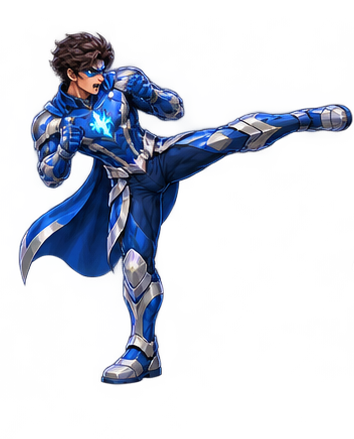
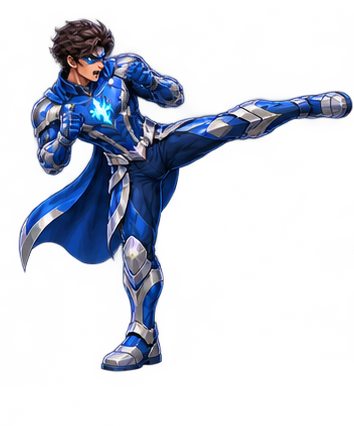
POINTS

Changed region(s): [[0.0311, 0.0305, 1.0, 0.885]]

diff --git a/src/style.css b/src/style.css
@@ -481,3 +481,220 @@ body{background:var(--bg);color:var(--text)}
 .sc-featured:after{background:linear-gradient(180deg,#ffffff00 50%,#143b5b20 100%)!important}
 @media(max-width:520px){.sc-featured{height:240px!important}}
 .gc-fighter.red img[src*="/images/powers/"]{transform:scaleX(-1)!important}
+
+/* FINAL REQUESTED POLISH — compact clash label, fixed hero scale, full-screen layout */
+.gc-impact{gap:7px!important;padding:5px 10px!important;border-radius:999px!important;backdrop-filter:blur(5px)!important}
+.gc-impact b{font-size:clamp(12px,1.55vw,19px)!important;letter-spacing:.12em!important;animation:gc-impact-pop .35s ease-out both!important}
+.gc-impact i{width:clamp(12px,2.8vw,38px)!important;height:2px!important}
+.gc-result-banner{padding:7px 13px!important;min-width:150px!important}
+.gc-result-banner strong{font-size:clamp(10px,1.1vw,13px)!important;letter-spacing:.08em!important}
+.gc-result-banner span{font-size:7px!important;margin-top:2px!important}
+/* Keep attack sprites at their normal size; only move them toward the centre. */
+@keyframes gc-blue-cast-new{0%,100%{transform:translateX(0)}25%{transform:translateX(8px)}55%{transform:translateX(30px)} }
+@keyframes gc-red-cast-new{0%,100%{transform:translateX(0)}25%{transform:translateX(-8px)}55%{transform:translateX(-30px)} }
+.gc-fighter img{transform:none!important}
+.gc-fighter.red img{transform:none!important}
+/* Character selection: whole fighter visible, no dark fade over the lower body. */
+.gc-hero-card:before{display:none!important}
+.gc-hero-card img{height:clamp(205px,27vh,270px)!important;object-fit:contain!important;object-position:center bottom!important;mask-image:none!important;border-radius:0!important;margin:3px auto 0!important}
+.gc-hero-card{min-height:0!important}
+/* Desktop: keep the complete selection and battle controls inside the viewport. */
+@media (min-width:761px){
+  .gsh-screen.gsh-clean-clash{height:100dvh!important;min-height:0!important;overflow:hidden!important;padding:8px 18px!important;box-sizing:border-box!important}
+  .gsh-clean-clash .gsh-back-row{margin-bottom:5px!important;min-height:38px!important}
+  .gc-select{height:calc(100dvh - 62px)!important;max-height:calc(100dvh - 62px)!important;margin:0 auto!important;padding:10px 18px!important;display:flex!important;flex-direction:column!important;justify-content:center!important;overflow:hidden!important;box-sizing:border-box!important}
+  .gc-select>h1{font-size:clamp(26px,3.1vw,40px)!important;margin:4px 0!important}
+  .gc-select>p{font-size:12px!important;margin:0 auto 10px!important}
+  .gc-select-grid{flex:1 1 auto!important;min-height:0!important;grid-template-columns:minmax(0,1fr) 48px minmax(0,1fr)!important;gap:12px!important}
+  .gc-hero-card{height:100%!important;padding:10px 14px!important;justify-content:center!important;gap:2px!important}
+  .gc-hero-card img{height:clamp(190px,27vh,250px)!important;max-height:30vh!important}
+  .gc-hero-card h2{font-size:clamp(22px,2vw,30px)!important;margin:2px 0!important}
+  .gc-name-field{margin:5px auto!important;gap:3px!important}
+  .gc-name-field input{padding:8px 10px!important}
+  .gc-hero-switch{margin-top:5px!important}
+  .gc-select>.gc-primary{margin-top:8px!important;min-height:40px!important;padding:9px 20px!important}
+  .gc-game{height:calc(100dvh - 60px)!important;max-height:calc(100dvh - 60px)!important;margin:0 auto!important;display:flex!important;flex-direction:column!important;gap:6px!important;overflow:hidden!important}
+  .gc-top-hud{flex:0 0 auto!important;gap:9px!important}
+  .gc-hud-side{padding:7px 12px!important}
+  .gc-round strong{font-size:22px!important}
+  .gc-stage{height:39vh!important;min-height:260px!important;max-height:390px!important;flex:0 0 auto!important}
+  .gc-fighter{height:94%!important;bottom:2px!important;width:34%!important}
+  .gc-fighter.blue{left:4%!important}
+  .gc-fighter.red{right:4%!important}
+  .gc-turn-status{min-height:22px!important;flex:0 0 auto!important;font-size:9px!important}
+  .gc-pick-panels{flex:0 0 auto!important;gap:8px!important;grid-template-columns:minmax(0,1fr) 105px minmax(0,1fr)!important}
+  .gc-picker{padding:7px!important}
+  .gc-picker-head{margin-bottom:5px!important}
+  .gc-power-grid{gap:5px!important}
+  .gc-power-grid button{height:64px!important}
+  .gc-middle-action{gap:5px!important}
+  .gc-reveal-row{flex:0 0 auto!important;gap:8px!important}
+  .gc-revealed{padding:8px 12px!important}
+  .gc-next,.gc-finish-actions{flex:0 0 auto!important;margin:0 auto!important}
+  .gc-footnote{margin-top:auto!important;padding-top:3px!important;font-size:7px!important}
+}
+@media(max-width:760px){
+  .gc-hero-card img{height:190px!important}
+  .gc-impact b{font-size:13px!important}
+  .gc-stage{border:2px solid #82b9df!important;box-shadow:0 0 0 3px #d7ebf8,0 10px 28px #2b4e681b!important}
+}
+
+/* ================================================================
+   GLOBAL SUPER HERO — complete 12-point arena polish
+   ================================================================ */
+.gsh-screen.gsh-clean-clash{
+  height:100dvh!important;min-height:100dvh!important;overflow:hidden!important;
+  box-sizing:border-box!important;padding:8px clamp(10px,2vw,26px)!important;
+  background:linear-gradient(135deg,#f8fcff 0%,#eaf4ff 52%,#fff8f5 100%)!important;
+}
+.gsh-clean-clash .gsh-back-row{height:38px!important;min-height:38px!important;margin:0 auto 6px!important;max-width:1500px!important}
+.gsh-clean-clash .gsh-back-row>button{border:1px solid #bfd5e7!important;background:#fff!important;color:#20486a!important}
+.gsh-clean-clash .gsh-brand{color:#1d4770!important;text-shadow:none!important}
+.gsh-clean-clash .gsh-round-tag{background:#fff!important;border:1px solid #c9dceb!important;color:#476983!important}
+
+/* Character select: full fighters, distinct team frames, no clipped controls. */
+.gc-select{
+  width:min(1500px,100%)!important;height:calc(100dvh - 58px)!important;max-height:calc(100dvh - 58px)!important;
+  margin:0 auto!important;padding:clamp(8px,1.5vh,16px) clamp(10px,2vw,26px)!important;
+  display:flex!important;flex-direction:column!important;justify-content:center!important;gap:clamp(3px,.8vh,8px)!important;
+  overflow:hidden!important;box-sizing:border-box!important;border:1px solid #c8dceb!important;
+  border-radius:22px!important;background:linear-gradient(145deg,#fff 0%,#f3f9ff 55%,#fff7f4 100%)!important;
+  box-shadow:0 12px 36px #294d6817!important;
+}
+.gc-select .gc-kicker{color:#3386bb!important;font-size:clamp(8px,1vh,11px)!important;letter-spacing:.22em!important}
+.gc-select>h1{color:#173c5d!important;font-size:clamp(23px,3.2vw,42px)!important;line-height:1.08!important;margin:2px 0!important;text-shadow:none!important}
+.gc-select>p{color:#67839b!important;font-size:clamp(9px,1.25vh,13px)!important;margin:0 auto clamp(3px,.7vh,7px)!important}
+.gc-select-grid{flex:1 1 auto!important;min-height:0!important;grid-template-columns:minmax(0,1fr) clamp(34px,4vw,62px) minmax(0,1fr)!important;gap:clamp(6px,1.2vw,18px)!important;align-items:stretch!important}
+.gc-hero-card{
+  min-height:0!important;height:100%!important;padding:clamp(8px,1.3vh,14px) clamp(8px,1.4vw,20px)!important;
+  display:flex!important;flex-direction:column!important;align-items:center!important;justify-content:center!important;gap:clamp(2px,.5vh,6px)!important;
+  border:2px solid #67b8e8!important;border-radius:20px!important;
+  background:linear-gradient(155deg,#fff 0%,#eff8ff 100%)!important;
+  box-shadow:0 8px 24px #2586c51a,inset 0 0 0 1px #ffffff!important;overflow:hidden!important;
+}
+.gc-hero-card.red{border-color:#f19a83!important;background:linear-gradient(155deg,#fff 0%,#fff2ee 100%)!important;box-shadow:0 8px 24px #dc6c4d17,inset 0 0 0 1px #fff!important}
+.gc-hero-card:before{display:none!important}
+.gc-player-label{align-self:flex-start!important;color:#47718e!important;font-size:clamp(8px,.9vh,10px)!important;letter-spacing:.2em!important}
+.gc-hero-card img{position:relative!important;display:block!important;width:100%!important;height:clamp(150px,30vh,290px)!important;max-height:32vh!important;object-fit:contain!important;object-position:center bottom!important;mask-image:none!important;border-radius:0!important;margin:0 auto!important;filter:drop-shadow(0 8px 9px #274a6522)!important;flex:0 1 auto!important}
+.gc-hero-card h2{position:relative!important;color:#176ca7!important;font-size:clamp(19px,2.4vw,32px)!important;line-height:1!important;margin:2px 0 0!important;letter-spacing:.1em!important}
+.gc-hero-card.red h2{color:#c44d3e!important}
+.gc-hero-card>span{color:#68839a!important;font-size:clamp(7px,.9vh,10px)!important;letter-spacing:.12em!important}
+.gc-name-field{width:min(300px,90%)!important;margin:clamp(2px,.5vh,6px) auto!important;color:#648097!important;font-size:clamp(7px,.8vh,9px)!important;gap:3px!important}
+.gc-name-field input{width:100%!important;padding:clamp(6px,.9vh,10px)!important;border:1px solid #c9dceb!important;border-radius:9px!important;background:#fff!important;color:#173c5d!important;font-size:clamp(10px,1.1vh,13px)!important}
+.gc-hero-switch{position:relative!important;display:flex!important;justify-content:center!important;gap:clamp(3px,.6vw,8px)!important;margin-top:clamp(2px,.5vh,6px)!important;flex-wrap:wrap!important}
+.gc-hero-switch button{padding:clamp(5px,.8vh,9px) clamp(7px,.9vw,14px)!important;border-radius:9px!important;border:1px solid #a9cbe1!important;background:#fff!important;color:#315b78!important;font-size:clamp(8px,.9vh,10px)!important}
+.gc-hero-card.blue .gc-hero-switch button.active{background:#dff2ff!important;border-color:#238dce!important;color:#075e99!important;box-shadow:0 0 0 2px #b9e5ff!important}
+.gc-hero-card.red .gc-hero-switch button.active{background:#ffebe5!important;border-color:#df705b!important;color:#a43d32!important;box-shadow:0 0 0 2px #ffd0c5!important}
+.gc-vs{color:#426c8c!important;font-size:clamp(18px,2.2vw,30px)!important;font-weight:1000!important;text-shadow:none!important;align-self:center!important}
+.gc-select>.gc-primary{flex:0 0 auto!important;margin:clamp(4px,.8vh,9px) auto 0!important;min-height:40px!important;padding:9px 24px!important;border:1px solid #2687c8!important;border-radius:12px!important;background:linear-gradient(100deg,#168bd4,#2869bb)!important;box-shadow:0 6px 16px #168bd433!important}
+
+/* Game view: a real viewport layout, so the controls stay visible. */
+.gc-game{
+  width:min(1500px,100%)!important;height:calc(100dvh - 52px)!important;max-height:calc(100dvh - 52px)!important;
+  margin:0 auto!important;display:flex!important;flex-direction:column!important;gap:clamp(4px,.7vh,8px)!important;
+  overflow:hidden!important;box-sizing:border-box!important;
+}
+.gc-top-hud{flex:0 0 auto!important;grid-template-columns:minmax(0,1fr) clamp(42px,5vw,66px) minmax(0,1fr)!important;gap:clamp(5px,1vw,12px)!important}
+.gc-hud-side{min-width:0!important;padding:clamp(5px,.9vh,10px) clamp(7px,1vw,13px)!important;border:1.5px solid #68b6e4!important;border-radius:12px!important;background:linear-gradient(110deg,#fff,#f0f8ff)!important;box-shadow:0 4px 14px #2a668a12!important}
+.gc-hud-side.red{border-color:#ef9b83!important;background:linear-gradient(110deg,#fff,#fff3ef)!important}
+.gc-hud-side small{color:#6c879c!important}.gc-hud-side strong{color:#176da6!important;font-size:clamp(11px,1.3vw,16px)!important}.gc-hud-side.red strong{color:#c34d3f!important}
+.gc-health{height:clamp(7px,1.1vh,11px)!important;background:#e0eaf1!important}.gc-round small{color:#718ba1!important}.gc-round strong{color:#254b69!important;font-size:clamp(18px,2vw,25px)!important}
+.gc-stage{
+  position:relative!important;flex:1 1 auto!important;min-height:0!important;height:auto!important;max-height:none!important;
+  border:3px solid transparent!important;border-radius:18px!important;
+  background:linear-gradient(#f5fbff,#f5fbff) padding-box,linear-gradient(110deg,#54b8ed 0%,#d7e7f2 30%,#e6c78f 50%,#f1a18b 72%,#e16e5a 100%) border-box!important;
+  box-shadow:0 0 0 1px #ffffff,inset 0 0 0 1px #ffffff,0 10px 28px #2a56731a!important;overflow:hidden!important;
+}
+.gc-arena-backdrop{position:absolute!important;inset:0!important;background:#eaf5ff!important;filter:none!important}
+.gc-arena-backdrop>img{position:absolute!important;inset:0!important;width:100%!important;height:100%!important;object-fit:cover!important;object-position:center 60%!important;opacity:1!important;filter:saturate(.98) brightness(1.06)!important}
+.gc-arena-vignette{background:linear-gradient(180deg,#ffffff00 0%,#ffffff00 70%,#e5eef51a 100%)!important}
+.gc-fighter,.gc-fighter.blue,.gc-fighter.red{
+  z-index:3!important;position:absolute!important;bottom:1%!important;width:34%!important;height:96%!important;
+  display:flex!important;align-items:flex-end!important;justify-content:center!important;
+  background:transparent!important;border:0!important;outline:0!important;box-shadow:none!important;overflow:visible!important;
+  filter:drop-shadow(0 9px 10px #284a6224)!important;transform:none!important;
+}
+.gc-fighter.blue{left:2%!important;right:auto!important;transform-origin:50% 90%!important}
+.gc-fighter.red{right:2%!important;left:auto!important;transform-origin:50% 90%!important}
+.gc-fighter:before,.gc-fighter:after{display:none!important;content:none!important}
+.gc-fighter img,.gc-fighter.blue img,.gc-fighter.red img{
+  display:block!important;width:100%!important;height:100%!important;max-width:none!important;max-height:none!important;
+  object-fit:contain!important;object-position:center bottom!important;transform:none!important;mask-image:none!important;
+  background:transparent!important;border:0!important;border-radius:0!important;filter:drop-shadow(0 4px 6px #243e5420)!important;
+}
+/* Action poses are full-body sprites: translate only, never scale the fighter. */
+.gc-stage.is-clashing .gc-fighter.blue{animation:arena-blue-attack 1.35s cubic-bezier(.2,.75,.2,1) both!important}
+.gc-stage.is-clashing .gc-fighter.red{animation:arena-red-attack 1.35s cubic-bezier(.2,.75,.2,1) both!important}
+@keyframes arena-blue-attack{0%,100%{translate:0 0}28%{translate:10px -3px}58%{translate:38px 0}78%{translate:28px 0}}
+@keyframes arena-red-attack{0%,100%{translate:0 0}28%{translate:-10px -3px}58%{translate:-38px 0}78%{translate:-28px 0}}
+.gc-fighter.blue-hurt,.gc-fighter.red-hurt{animation:arena-recoil .58s ease-out both!important}
+@keyframes arena-recoil{0%,100%{translate:0 0;rotate:0}28%{translate:-14px 0;rotate:-3deg}55%{translate:-8px 0;rotate:2deg}}
+/* Only the defeated fighter falls at the end; blue falls outward left, red outward right. */
+.gc-fighter.blue-fall{left:2%!important;right:auto!important;bottom:0!important;transform:translate(-5px,12px) rotate(-74deg)!important;transform-origin:50% 88%!important;filter:grayscale(.15) drop-shadow(0 8px 8px #253c5022)!important}
+.gc-fighter.red-fall{right:2%!important;left:auto!important;bottom:0!important;transform:translate(5px,12px) rotate(74deg)!important;transform-origin:50% 88%!important;filter:grayscale(.15) drop-shadow(0 8px 8px #253c5022)!important}
+.gc-fighter.blue-fall img,.gc-fighter.red-fall img{animation:none!important}
+
+/* Hand-to-hand energy clash: both sides stay equally visible; no power winner/loser label. */
+.gc-blast{z-index:5!important;top:42%!important;width:48%!important;height:100px!important;opacity:1!important;filter:drop-shadow(0 0 12px var(--blast))!important;mix-blend-mode:screen!important}
+.gc-blast.blue{left:22%!important;right:auto!important;transform:none!important;transform-origin:left center!important}
+.gc-blast.red{right:22%!important;left:auto!important;transform:scaleX(-1)!important;transform-origin:left center!important}
+.gc-blast.is-dominant,.gc-blast.is-overpowered{opacity:1!important;filter:drop-shadow(0 0 12px var(--blast))!important;animation-duration:1.15s!important}
+.gc-blast.is-overpowered .gc-blast-core,.gc-blast.is-overpowered .gc-blast-trail{opacity:1!important}
+.gc-impact{top:43%!important;gap:6px!important;padding:4px 9px!important;border:1px solid #c7ddec!important;border-radius:999px!important;background:#ffffffdf!important;color:#204f70!important;box-shadow:0 3px 12px #2a58751c!important;text-shadow:none!important}
+.gc-impact b{font-size:clamp(10px,1.2vw,15px)!important;letter-spacing:.12em!important;text-shadow:none!important}
+.gc-impact i{width:clamp(10px,2vw,25px)!important;height:2px!important}
+.gc-result-banner{top:10px!important;padding:6px 12px!important;background:#ffffffed!important;border:1px solid #c4dceb!important;color:#214d6d!important;box-shadow:0 4px 14px #2a58751c!important}
+.gc-result-banner strong{font-size:clamp(10px,1vw,13px)!important}.gc-result-banner span{font-size:7px!important;color:#6b879d!important}
+.gc-turn-status{flex:0 0 auto!important;min-height:20px!important;color:#55758e!important;font-size:clamp(8px,.9vh,10px)!important}
+.gc-pick-panels{flex:0 0 auto!important;grid-template-columns:minmax(0,1fr) clamp(72px,8vw,108px) minmax(0,1fr)!important;gap:clamp(5px,.8vw,10px)!important;min-height:0!important}
+.gc-picker{padding:clamp(5px,.8vh,9px)!important;border:1.5px solid #9ccbe5!important;border-radius:12px!important;background:linear-gradient(145deg,#fff,#f2f9ff)!important;box-shadow:0 3px 12px #31577710!important;opacity:1!important}
+.gc-picker.red{border-color:#efb1a1!important;background:linear-gradient(145deg,#fff,#fff5f1)!important}
+.gc-picker.is-active{box-shadow:0 0 0 2px #8bcaf0,0 5px 14px #31577712!important}.gc-picker.red.is-active{box-shadow:0 0 0 2px #f0a18e,0 5px 14px #31577712!important}
+.gc-picker-head{margin-bottom:4px!important}.gc-picker-head strong{font-size:clamp(8px,.9vh,10px)!important;color:#2676a9!important}.gc-picker.red .gc-picker-head strong{color:#bd5546!important}.gc-picker-head span{font-size:clamp(7px,.8vh,9px)!important;color:#6a879c!important}
+.gc-power-grid{gap:clamp(3px,.4vw,5px)!important}
+.gc-power-grid button{height:clamp(48px,7.8vh,68px)!important;min-width:0!important;padding:4px 2px!important;border:1px solid #c3d9e8!important;border-radius:8px!important;background:#f9fcff!important;color:#244d6a!important}
+.gc-power-grid button>span{font-size:clamp(14px,1.7vw,20px)!important}.gc-power-grid button>small{font-size:clamp(6px,.75vh,8px)!important;line-height:1.05!important;white-space:normal!important}
+.gc-power-grid button.chosen{border:2px solid #288dc8!important;background:#e5f5ff!important}.gc-picker.red .gc-power-grid button.chosen{border-color:#df705b!important;background:#fff0eb!important}
+.gc-middle-action{gap:4px!important}.gc-lock-state{font-size:7px!important;color:#64839a!important}.gc-lock-state span{color:#b65a4c!important}
+.gc-reveal-row{flex:0 0 auto!important;grid-template-columns:1fr 1fr!important;gap:7px!important}
+.gc-revealed{min-height:0!important;padding:clamp(5px,.8vh,9px) clamp(7px,1vw,12px)!important;border:1px solid #bdd8e9!important;border-radius:10px!important;background:#fff!important;box-shadow:0 3px 10px #3157770d!important}
+.gc-revealed.red{border-color:#edc2b7!important}.gc-revealed small{font-size:7px!important;color:#71899d!important}.gc-revealed strong{font-size:clamp(9px,1vw,12px)!important;color:#244e6d!important}.gc-revealed span{font-size:clamp(7px,.8vh,9px)!important;color:#71899d!important;line-height:1.15!important}
+.gc-next,.gc-finish-actions{flex:0 0 auto!important;margin:0 auto!important;min-height:34px!important}.gc-next{padding:7px 22px!important}
+.gc-footnote{flex:0 0 auto!important;margin-top:auto!important;padding-top:1px!important;font-size:clamp(6px,.7vh,8px)!important;color:#7891a5!important;line-height:1!important}
+.gc-finish-actions{display:flex!important;gap:8px!important}.gc-finish-actions button{padding:8px 14px!important;font-size:10px!important}
+
+/* Dashboard: show the complete hero poster, not a zoomed/cropped strip. */
+.sc-featured{
+  display:block!important;width:100%!important;height:auto!important;aspect-ratio:16/9!important;
+  max-height:none!important;overflow:hidden!important;border:1px solid #9fc7e2!important;border-radius:22px!important;
+  background:#102e50!important;box-shadow:0 12px 30px #244d6b20!important;margin:4px 0 24px!important;
+}
+.sc-featured img{display:block!important;width:100%!important;height:100%!important;object-fit:contain!important;object-position:center!important;transform:none!important;background:#102e50!important}
+.sc-featured:after{background:linear-gradient(180deg,#061b3300 62%,#061b3330 100%)!important}
+.sc-featured-cta{bottom:14px!important}
+
+@media(max-width:760px){
+  .gsh-screen.gsh-clean-clash{padding:5px!important}
+  .gsh-clean-clash .gsh-back-row{height:34px!important;min-height:34px!important;margin-bottom:4px!important}
+  .gc-select{height:calc(100dvh - 44px)!important;max-height:calc(100dvh - 44px)!important;padding:6px!important;border-radius:14px!important}
+  .gc-select-grid{grid-template-columns:minmax(0,1fr) 25px minmax(0,1fr)!important;gap:4px!important}
+  .gc-hero-card{padding:5px 3px!important;border-radius:12px!important;gap:2px!important}
+  .gc-hero-card img{height:clamp(105px,24vh,190px)!important;max-height:25vh!important}
+  .gc-hero-card h2{font-size:clamp(14px,4vw,22px)!important}.gc-hero-card>span{font-size:6px!important;letter-spacing:.04em!important}
+  .gc-player-label{font-size:7px!important}.gc-name-field{width:96%!important;font-size:6px!important}.gc-name-field input{padding:5px 4px!important;font-size:9px!important}
+  .gc-hero-switch{gap:2px!important}.gc-hero-switch button{padding:5px 4px!important;font-size:7px!important}
+  .gc-select>.gc-primary{min-height:34px!important;padding:7px 14px!important;font-size:10px!important}
+  .gc-game{height:calc(100dvh - 43px)!important;max-height:calc(100dvh - 43px)!important;gap:3px!important}
+  .gc-top-hud{grid-template-columns:minmax(0,1fr) 32px minmax(0,1fr)!important;gap:3px!important}
+  .gc-hud-side{grid-template-columns:minmax(0,1fr) 25px!important;gap:3px!important;padding:4px!important}.gc-hud-side .gc-health{grid-column:1/3!important;grid-row:2!important}.gc-hud-side strong{font-size:9px!important}.gc-hud-side small{font-size:6px!important}.gc-hud-side>b{font-size:8px!important}
+  .gc-stage{flex:1 1 auto!important;min-height:160px!important;border-width:2px!important;border-radius:12px!important}
+  .gc-fighter{width:39%!important;height:94%!important}.gc-fighter.blue{left:0!important}.gc-fighter.red{right:0!important}
+  .gc-blast{width:52%!important;top:42%!important}.gc-blast.blue{left:17%!important}.gc-blast.red{right:17%!important}
+  .gc-pick-panels{grid-template-columns:minmax(0,1fr) 28px minmax(0,1fr)!important;gap:3px!important}
+  .gc-picker{padding:3px!important}.gc-picker-head{display:block!important;margin-bottom:2px!important}.gc-picker-head strong{font-size:6px!important}.gc-picker-head span{display:none!important}
+  .gc-power-grid{grid-template-columns:repeat(5,minmax(0,1fr))!important;gap:2px!important}.gc-power-grid button{height:clamp(34px,6vh,48px)!important;padding:2px 0!important}.gc-power-grid button>b{font-size:6px!important}.gc-power-grid button>span{font-size:12px!important}.gc-power-grid button>small{font-size:5px!important;letter-spacing:0!important}
+  .gc-middle-action{min-height:0!important;justify-content:center!important}.gc-lock-state{display:none!important}.gc-vs-mini{font-size:12px!important}
+  .gc-turn-status{min-height:14px!important;font-size:7px!important}.gc-revealed{padding:3px!important}.gc-revealed small{font-size:5px!important}.gc-revealed strong{font-size:7px!important}.gc-revealed span{font-size:6px!important}
+  .gc-footnote{font-size:5px!important}.gc-impact b{font-size:10px!important}
+  .sc-featured{aspect-ratio:16/9!important}
+}

diff --git a/src/components/SuperheroClash.tsx b/src/components/SuperheroClash.tsx
@@ -53,12 +53,10 @@ export default function SuperheroClash({ onExit, onWin }: Props) {
   const [blueHealth, setBlueHealth] = useState(100)
   const [redHealth, setRedHealth] = useState(100)
   const [winner, setWinner] = useState<Side | null>(null)
-  const [lastHit, setLastHit] = useState('')
   const [clashId, setClashId] = useState(0)
   const [impactSide, setImpactSide] = useState<Side | null>(null)
-  const [attackWinner, setAttackWinner] = useState<Side | null>(null)
-  const [blueReaction, setBlueReaction] = useState<'hurt' | 'stumble' | 'fall' | 'guard'>('hurt')
-  const [redReaction, setRedReaction] = useState<'hurt' | 'stumble' | 'fall' | 'guard'>('hurt')
+  const [blueReaction, setBlueReaction] = useState<'hurt' | 'stumble' | 'fall' | 'guard'>('guard')
+  const [redReaction, setRedReaction] = useState<'hurt' | 'stumble' | 'fall' | 'guard'>('guard')
 
   const blue = blueHeroes[blueHero], red = redHeroes[redHero]
   const blueDisplayName = bluePlayerName.trim() || blue.name
@@ -67,7 +65,7 @@ export default function SuperheroClash({ onExit, onWin }: Props) {
   const redPower = redPick === null ? null : redPowers[redPick]
   const randomReaction = (): 'hurt' | 'stumble' | 'fall' | 'guard' => {
     const roll = Math.random()
-    return roll < 0.34 ? 'fall' : roll < 0.64 ? 'stumble' : roll < 0.9 ? 'hurt' : 'guard'
+    return roll < 0.42 ? 'stumble' : roll < 0.86 ? 'hurt' : 'guard'
   }
   const poseForPower = (power: Power | null) => {
     if (!power) return 'punch'
@@ -75,23 +73,21 @@ export default function SuperheroClash({ onExit, onWin }: Props) {
     if (['IMPACT', 'SPEED'].includes(power.type)) return 'kick'
     return 'cast'
   }
-  const fighterImage = (side: Side, power: Power | null, reaction: string, isClashing: boolean, isWinner: boolean) => {
-    if (isClashing && power) {
-      if (side === 'blue' && power.type === 'WATER') return '/images/powers/blue-water.png'
-      if (side === 'blue' && power.type === 'LIGHTNING') return '/images/powers/blue-lightning.png'
-      if (side === 'blue' && power.type === 'SHIELD') return '/images/powers/blue-shield.png'
-      if (side === 'red' && power.type === 'FIRE') return '/images/powers/red-firebeam.png'
-      if (side === 'red' && power.type === 'SHIELD') return '/images/powers/red-shield.png'
+  const fighterImage = (side: Side, power: Power | null, reaction: string, isClashing: boolean) => {
+    // One full-body action sprite per fighter. The sprite keeps the same frame
+    // size; elemental effects are layered from the hands as separate effects.
+    if (isClashing && power && !['SHIELD', 'HEAL'].includes(power.type)) {
+      const action = ['IMPACT', 'SPEED'].includes(power.type) ? 'kick' : 'punch'
+      return `/images/fighters/${side}-${action}.png`
     }
-    if (isClashing) return `/images/fighters/${side}-${poseForPower(power) === 'cast' || poseForPower(power) === 'guard' ? 'punch' : poseForPower(power)}.png`
     if (reaction === 'fall') return `/images/fighters/${side}-down.png`
     if (reaction === 'hurt' || reaction === 'stumble') return `/images/fighters/${side}-hurt.png`
     return `/images/fighters/${side}-idle.png`
   }
 
   const begin = () => {
-    setBlueHealth(100); setRedHealth(100); setRound(1); setWinner(null); setLastHit('')
-    setBluePowers(shufflePowers()); setRedPowers(shufflePowers()); setBluePick(null); setRedPick(null); setImpactSide(null); setAttackWinner(null); setBlueReaction('hurt'); setRedReaction('hurt'); setPhase('p1')
+    setBlueHealth(100); setRedHealth(100); setRound(1); setWinner(null)
+    setBluePowers(shufflePowers()); setRedPowers(shufflePowers()); setBluePick(null); setRedPick(null); setImpactSide(null); setBlueReaction('guard'); setRedReaction('guard'); setPhase('p1')
   }
   const choose = (side: Side, index: number) => {
     if (side === 'blue' && phase === 'p1') { setBluePick(index); setPhase('p2') }
@@ -110,21 +106,19 @@ export default function SuperheroClash({ onExit, onWin }: Props) {
     const redHeal = redPower.type === 'HEAL' ? 12 : 0
     const nextBlue = Math.min(100, Math.max(0, blueHealth - blueDamage + blueHeal))
     const nextRed = Math.min(100, Math.max(0, redHealth - redDamage + redHeal))
-    const message = bWins ? `${bluePower.name} OVERPOWERS ${redPower.name}` : `${redPower.name} BREAKS THROUGH ${bluePower.name}`
     setImpactSide(bWins ? 'red' : 'blue')
-    setAttackWinner(bWins ? 'blue' : 'red')
     setBlueReaction(nextBlue <= 0 ? 'fall' : bWins ? 'guard' : randomReaction())
     setRedReaction(nextRed <= 0 ? 'fall' : bWins ? randomReaction() : 'guard')
     window.setTimeout(() => {
-      setBlueHealth(nextBlue); setRedHealth(nextRed); setLastHit(message)
+      setBlueHealth(nextBlue); setRedHealth(nextRed)
       if (nextBlue <= 0 || nextRed <= 0) { const winSide: Side = nextBlue > nextRed ? 'blue' : 'red'; setWinner(winSide); setPhase('finished'); onWin?.() }
       else setPhase('result')
     }, 2350)
   }
   const nextRound = () => {
-    setRound(v => v + 1); setBluePowers(shufflePowers()); setRedPowers(shufflePowers()); setBluePick(null); setRedPick(null); setImpactSide(null); setAttackWinner(null); setBlueReaction('hurt'); setRedReaction('hurt'); setLastHit(''); setPhase('p1')
+    setRound(v => v + 1); setBluePowers(shufflePowers()); setRedPowers(shufflePowers()); setBluePick(null); setRedPick(null); setImpactSide(null); setBlueReaction('guard'); setRedReaction('guard'); setPhase('p1')
   }
-  const reset = () => { setPhase('select'); setWinner(null); setImpactSide(null); setAttackWinner(null); setBlueHealth(100); setRedHealth(100) }
+  const reset = () => { setPhase('select'); setWinner(null); setImpactSide(null); setBlueHealth(100); setRedHealth(100) }
 
   return <main className="gsh-screen gsh-real-game gsh-clean-clash">
     <header className="gsh-back-row"><button onClick={onExit}><ArrowLeft size={17}/> EXIT ARENA</button><div className="gsh-brand"><Crown size={18}/> GLOBAL SUPER HERO</div><span className="gsh-round-tag">2 PLAYER · POWER CLASH</span></header>
@@ -146,20 +140,20 @@ export default function SuperheroClash({ onExit, onWin }: Props) {
         <div className="gc-hud-side red"><div><small>PLAYER 2</small><strong>{redDisplayName}</strong></div><div className="gc-health"><i style={{ width: `${redHealth}%` }}/></div><b>{redHealth}%</b></div>
       </div>
 
-      <div className={`gc-stage ${phase === 'clash' ? `is-clashing dominant-${attackWinner} blue-power-${bluePower?.type.toLowerCase()} red-power-${redPower?.type.toLowerCase()}` : ''} ${phase === 'result' ? `impact-${impactSide}` : ''}`} key={clashId}>
+      <div className={`gc-stage ${phase === 'clash' ? 'is-clashing' : ''} ${phase === 'result' ? `impact-${impactSide}` : ''}`} key={clashId}>
         <div className="gc-arena-backdrop"><img src="/images/arena-background.png" alt="Grand championship arena"/><div className="gc-arena-vignette"/><div className="gc-floor-ring ring-one"/><div className="gc-floor-ring ring-two"/></div>
         {phase === 'clash' && <>
-          <PowerBlast side="blue" power={bluePower} winner={attackWinner} />
-          <PowerBlast side="red" power={redPower} winner={attackWinner} />
+          <PowerBlast side="blue" power={bluePower} />
+          <PowerBlast side="red" power={redPower} />
           <div className="gc-impact"><i/><b>CLASH!</b><i/></div>
         </>}
         <div className={`gc-fighter blue ${phase === 'clash' ? `blue-attack pose-${poseForPower(bluePower)}` : phase === 'result' && impactSide === 'blue' ? `blue-${blueReaction}` : phase === 'finished' && winner === 'red' ? 'blue-fall' : ''}`}>
-          <img src={fighterImage('blue', bluePower, blueReaction, phase === 'clash', phase === 'clash' && attackWinner === 'blue')} alt={`${blueDisplayName} fighter action`} />
+          <img src={fighterImage('blue', bluePower, blueReaction, phase === 'clash')} alt={`${blueDisplayName} fighter action`} />
         </div>
         <div className={`gc-fighter red ${phase === 'clash' ? `red-attack pose-${poseForPower(redPower)}` : phase === 'result' && impactSide === 'red' ? `red-${redReaction}` : phase === 'finished' && winner === 'blue' ? 'red-fall' : ''}`}>
-          <img src={fighterImage('red', redPower, redReaction, phase === 'clash', phase === 'clash' && attackWinner === 'red')} alt={`${redDisplayName} fighter action`} />
+          <img src={fighterImage('red', redPower, redReaction, phase === 'clash')} alt={`${redDisplayName} fighter action`} />
         </div>
-        {(phase === 'result' || phase === 'finished') && <div className="gc-result-banner"><strong>{phase === 'finished' ? `${winner === 'blue' ? blueDisplayName : redDisplayName} WINS!` : lastHit}</strong><span>{phase === 'finished' ? 'ARENA CHAMPION' : 'POWER COLLISION COMPLETE'}</span></div>}
+        {(phase === 'result' || phase === 'finished') && <div className="gc-result-banner"><strong>{phase === 'finished' ? `${winner === 'blue' ? blueDisplayName : redDisplayName} WINS!` : 'ROUND COMPLETE'}</strong><span>{phase === 'finished' ? 'ARENA CHAMPION' : 'CHOOSE AGAIN'}</span></div>}
       </div>
 
       <div className="gc-turn-status">
@@ -200,10 +194,9 @@ function PowerPicker({ side, powers, selected, active, locked, onChoose }: { sid
 }
 
 
-function PowerBlast({ side, power, winner }: { side: Side; power: Power | null; winner: Side | null }) {
+function PowerBlast({ side, power }: { side: Side; power: Power | null }) {
   if (!power) return null
-  const dominance = winner === side ? 'is-dominant' : 'is-overpowered'
-  return <div className={`gc-blast ${side} ${dominance} power-${power.type.toLowerCase()}`} aria-label={`${power.name} attack effect`}>
+  return <div className={`gc-blast ${side} power-${power.type.toLowerCase()}`} aria-label={`${power.name} attack effect`}>
     <span className="gc-blast-core" />
     <span className="gc-blast-trail" />
     <span className="gc-blast-particles" />
